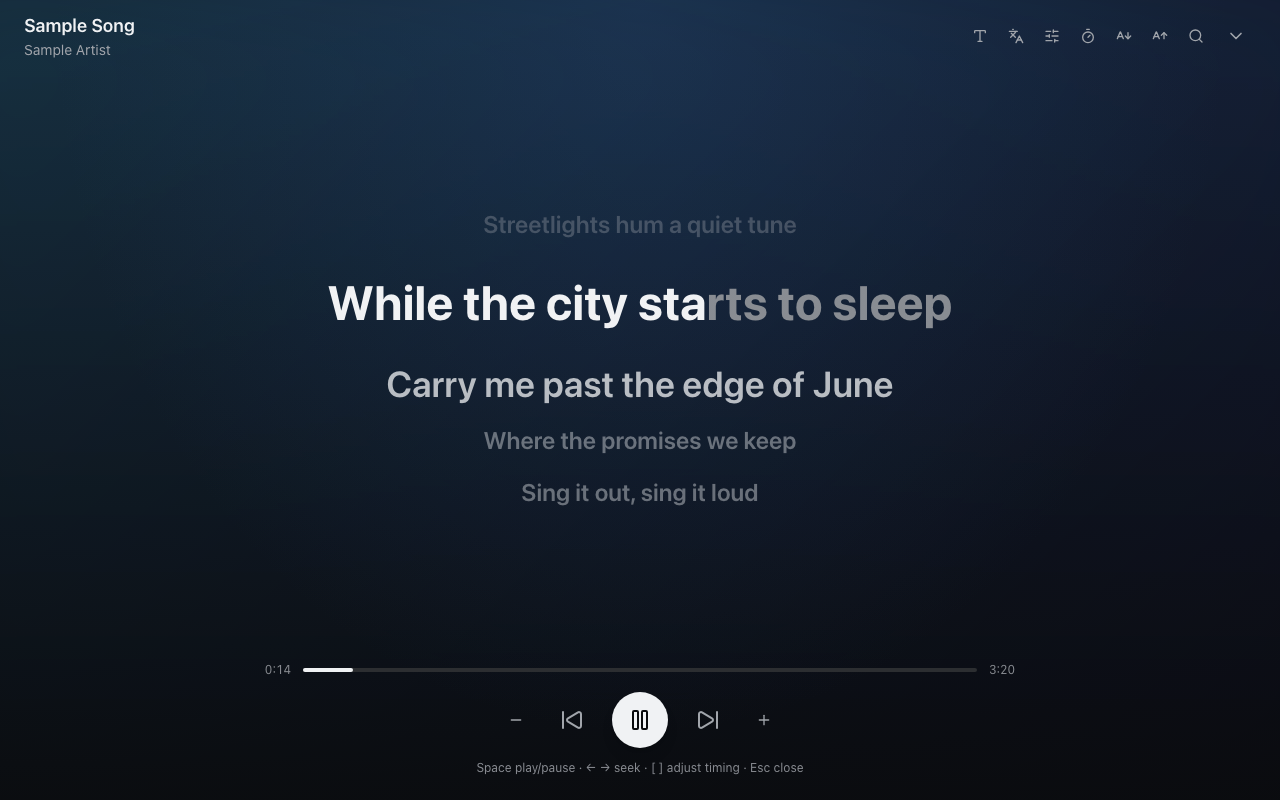
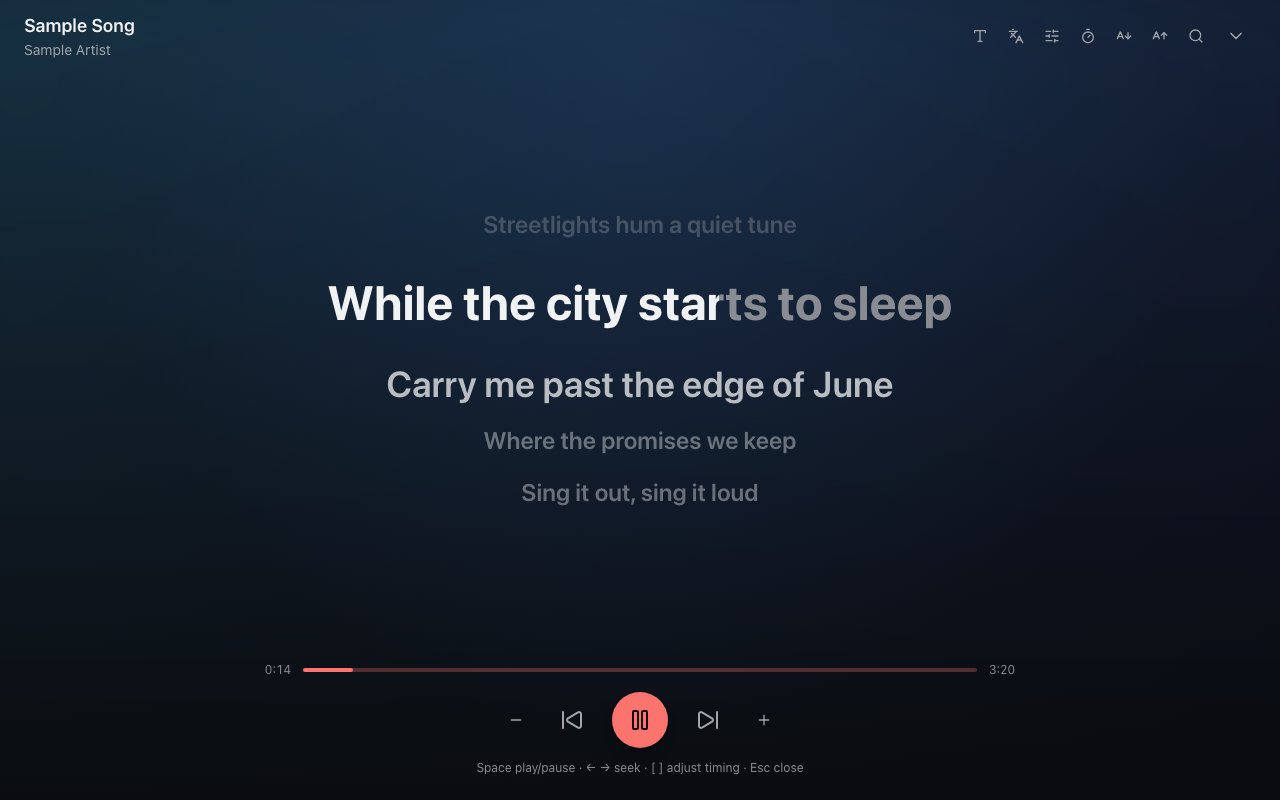
feat: more of the accent colour across the UI
Derived accent tints (soft, muted, line) follow the accent whether it is a
preset, custom or taken from the album art. The sidebar, player bar and content
header get a wash of it, the active nav item, chips, hover states, sliders, play
buttons and section titles use it, and selection and scrollbars pick it up. Accent
text must now stay readable on its own tint, so the readability target is 5.5 and
the light theme's default accent is a touch darker, both covered by tests.

Changed region(s): [[0.25, 0.8125, 0.75, 0.9375], [0.5312, 0.375, 0.5625, 0.4062]]

diff --git a/apps/desktop/src/app/pages/SettingsPage.tsx b/apps/desktop/src/app/pages/SettingsPage.tsx
@@ -89,7 +89,7 @@ export function SettingsPage() {
       <h1 className="font-display text-3xl font-bold tracking-tight">{t('settings.title')}</h1>
 
       <section className="flex flex-col gap-3">
-        <h2 className="font-semibold">{t('settings.account')}</h2>
+        <h2 className="section-title font-semibold">{t('settings.account')}</h2>
         <div className="flex items-center gap-3 rounded-lg border border-border bg-bg-elevated p-4">
           {account.data?.avatarUrl && (
             <CachedImg src={account.data.avatarUrl} alt="" className="size-10 rounded-full" />
@@ -131,7 +131,7 @@ export function SettingsPage() {
       <AppearanceSection />
 
       <section className="flex flex-col gap-3">
-        <h2 className="font-semibold">{t('settings.desktop')}</h2>
+        <h2 className="section-title font-semibold">{t('settings.desktop')}</h2>
         {settings && (
           <>
             <Toggle
@@ -166,7 +166,7 @@ export function SettingsPage() {
       </section>
 
       <section className="flex flex-col gap-3">
-        <h2 className="font-semibold">{t('settings.shortcuts')}</h2>
+        <h2 className="section-title font-semibold">{t('settings.shortcuts')}</h2>
         <p className="text-sm text-fg-muted">{t('settings.shortcutsHint')}</p>
         {settings && (
           <div className="flex flex-col divide-y divide-border rounded-lg border border-border bg-bg-elevated">
@@ -191,7 +191,7 @@ export function SettingsPage() {
       <PluginsSection />
 
       <section className="flex flex-col gap-3">
-        <h2 className="font-semibold">{t('settings.updates')}</h2>
+        <h2 className="section-title font-semibold">{t('settings.updates')}</h2>
         <div className="flex items-center gap-3 rounded-lg border border-border bg-bg-elevated p-4 text-sm">
           <div className="flex-1">
             <div>{t('settings.version', { version: version || '—' })}</div>
@@ -222,7 +222,7 @@ export function SettingsPage() {
       <StorageSection />
 
       <section className="flex flex-col gap-3">
-        <h2 className="font-semibold">{t('settings.diagnostics')}</h2>
+        <h2 className="section-title font-semibold">{t('settings.diagnostics')}</h2>
         <dl className="grid grid-cols-[auto_1fr] gap-x-6 gap-y-1 rounded-lg border border-border bg-bg-elevated p-4 text-sm">
           <dt className="text-fg-subtle">{t('diag.bridge')}</dt>
           <dd>{bridgeVersion ?? '—'}</dd>
@@ -252,7 +252,7 @@ export function SettingsPage() {
       </section>
 
       <section className="flex flex-col gap-2 text-sm text-fg-muted">
-        <h2 className="font-semibold text-fg">{t('settings.about')}</h2>
+        <h2 className="section-title font-semibold text-fg">{t('settings.about')}</h2>
         <p>{t('about.text')}</p>
         <p className="text-xs text-fg-subtle">{t('about.disclaimer')}</p>
       </section>

diff --git a/apps/desktop/src/app/Sidebar.tsx b/apps/desktop/src/app/Sidebar.tsx
@@ -27,7 +27,7 @@ export function Sidebar() {
   return (
     <nav
       aria-label={t('nav.primary')}
-      className="flex h-full min-h-0 flex-col border-e border-border bg-bg-elevated"
+      className="flex h-full min-h-0 flex-col border-e border-accent-line bg-bg-elevated bg-[image:linear-gradient(to_bottom,var(--color-accent-soft),transparent_45%)]"
     >
       <div data-tauri-drag-region className="h-10 shrink-0" />
       <div className="flex flex-col gap-1 px-3">
@@ -40,8 +40,8 @@ export function Sidebar() {
               cn(
                 'flex h-(--nav-h) items-center gap-3 rounded-md px-2 text-sm transition-colors duration-(--duration-fast)',
                 isActive
-                  ? 'bg-bg-overlay text-fg'
-                  : 'text-fg-muted hover:bg-bg-overlay hover:text-fg',
+                  ? 'bg-accent-soft font-medium text-accent'
+                  : 'text-fg-muted hover:bg-accent-soft hover:text-fg',
               )
             }
           >
@@ -57,7 +57,7 @@ export function Sidebar() {
             <button
               type="button"
               aria-label={t('nav.newPlaylist')}
-              className="text-fg-subtle hover:text-fg"
+              className="text-fg-subtle hover:text-accent"
               onClick={() => openDialog({ type: 'createPlaylist' })}
             >
               <Plus className="size-4" />
@@ -74,8 +74,8 @@ export function Sidebar() {
               cn(
                 'flex h-[calc(var(--nav-h)+0.25rem)] items-center gap-2 rounded-md px-2 text-sm',
                 isActive
-                  ? 'bg-bg-overlay text-fg'
-                  : 'text-fg-muted hover:bg-bg-overlay hover:text-fg',
+                  ? 'bg-accent-soft font-medium text-accent'
+                  : 'text-fg-muted hover:bg-accent-soft hover:text-fg',
               )
             }
           >
@@ -100,8 +100,8 @@ export function Sidebar() {
             cn(
               'flex h-(--nav-h) items-center gap-3 rounded-md px-2 text-sm',
               isActive
-                ? 'bg-bg-overlay text-fg'
-                : 'text-fg-muted hover:bg-bg-overlay hover:text-fg',
+                ? 'bg-accent-soft font-medium text-accent'
+                : 'text-fg-muted hover:bg-accent-soft hover:text-fg',
             )
           }
         >

diff --git a/apps/desktop/src/appearance/tokens.test.ts b/apps/desktop/src/appearance/tokens.test.ts
@@ -13,6 +13,7 @@ import {
   ACCENT_PRESETS,
   type Rgb,
 } from './color';
+import { ACCENT_MIN_CONTRAST } from './apply';
 
 const css = readFileSync(
   fileURLToPath(new URL('../../../../packages/ui/src/styles/tokens.css', import.meta.url)),
@@ -56,6 +57,38 @@ describe.each(['dark', 'light', 'amoled'] as const)('%s theme meets WCAG AA', (t
   });
   it('borders are visible but quiet', () => {
     expect(contrast(get('border'), get('bg'))).toBeGreaterThan(1.1);
+  });
+});
+
+const mixRgb = (a: Rgb, b: Rgb, t: number): Rgb => [
+  a[0] * t + b[0] * (1 - t),
+  a[1] * t + b[1] * (1 - t),
+  a[2] * t + b[2] * (1 - t),
+];
+/** accent-soft is 14% accent; gradients can add a little more where they overlap. */
+const TINT = 0.16;
+
+describe.each(['dark', 'light', 'amoled'] as const)('%s theme: accent on its own tint', (theme) => {
+  const t = tokens(theme);
+  it('the default accent stays readable as text on the tinted surfaces', () => {
+    const accent = t['accent'] ?? [0, 0, 0];
+    for (const surface of ['bg', 'bg-elevated']) {
+      const bg = t[surface] ?? [0, 0, 0];
+      expect(contrast(accent, mixRgb(accent, bg, TINT))).toBeGreaterThanOrEqual(4.5);
+    }
+  });
+  it('every preset, once nudged, does too', () => {
+    const page = t['bg'] ?? [0, 0, 0];
+    for (const p of ACCENT_PRESETS) {
+      const accent = ensureContrast(presetRgb(p.id), page, ACCENT_MIN_CONTRAST);
+      for (const surface of ['bg', 'bg-elevated']) {
+        const bg = t[surface] ?? [0, 0, 0];
+        expect(
+          contrast(accent, mixRgb(accent, bg, TINT)),
+          `${p.id} on ${surface}`,
+        ).toBeGreaterThanOrEqual(4.5);
+      }
+    }
   });
 });
 

diff --git a/apps/desktop/src/app/components/ItemCard.tsx b/apps/desktop/src/app/components/ItemCard.tsx
@@ -38,7 +38,7 @@ export function ItemCard({ item, width }: { item: Item; width?: number }) {
         onKeyDown={(e) => {
           if (e.key === 'Enter') open();
         }}
-        className="group box-content flex shrink-0 cursor-pointer flex-col gap-2 rounded-lg p-2 outline-none transition-colors duration-(--duration-fast) hover:bg-bg-overlay focus-visible:ring-2 focus-visible:ring-accent"
+        className="group box-content flex shrink-0 cursor-pointer flex-col gap-2 rounded-lg p-2 outline-none transition-colors duration-(--duration-fast) hover:bg-accent-soft focus-visible:ring-2 focus-visible:ring-accent"
         style={{ width: isVideo ? tile * 1.6 : tile }}
       >
         <div className="relative">
@@ -135,7 +135,7 @@ function ActionTile({ item }: { item: Extract<Item, { kind: 'action' }> }) {
     <button
       type="button"
       onClick={() => void playItem(item)}
-      className="flex h-12 shrink-0 items-center gap-2 rounded-md border border-dashed border-border px-4 text-sm text-fg-muted hover:bg-bg-overlay"
+      className="flex h-12 shrink-0 items-center gap-2 rounded-md border border-dashed border-border px-4 text-sm text-fg-muted hover:bg-accent-soft"
     >
       {item.title}
     </button>

diff --git a/apps/desktop/src/app/components/ItemRow.tsx b/apps/desktop/src/app/components/ItemRow.tsx
@@ -50,7 +50,7 @@ export function ItemRow({ item, index, showIndex, showAlbum = true, onPlay, dens
       <button
         type="button"
         onClick={() => void playItem(item)}
-        className="flex h-12 items-center gap-3 rounded-md px-3 text-sm text-fg-muted hover:bg-bg-overlay"
+        className="flex h-12 items-center gap-3 rounded-md px-3 text-sm text-fg-muted hover:bg-accent-soft"
       >
         {item.title}
       </button>
@@ -72,7 +72,7 @@ export function ItemRow({ item, index, showIndex, showAlbum = true, onPlay, dens
           if (e.key === 'Enter') activate();
         }}
         className={cn(
-          'group grid cursor-default items-center gap-3 rounded-md px-2 outline-none hover:bg-bg-overlay focus-visible:ring-2 focus-visible:ring-accent',
+          'group grid cursor-default items-center gap-3 rounded-md px-2 outline-none hover:bg-accent-soft focus-visible:ring-2 focus-visible:ring-accent',
           dense ? 'h-[calc(var(--row-h)-0.5rem)]' : 'h-(--row-h)',
           showAlbum
             ? 'grid-cols-[2rem_auto_minmax(0,3fr)_minmax(0,2fr)_auto_2.5rem]'

diff --git a/apps/desktop/src/styles.css b/apps/desktop/src/styles.css
@@ -111,3 +111,40 @@ input[type='range'] {
     cursor: default;
   }
 }
+
+/* A wash of the accent colour: the main content fades in from the top, the sidebar from its head. */
+[data-content] {
+  background-image: radial-gradient(
+    ellipse 90% 320px at 50% -40px,
+    color-mix(in oklch, var(--color-accent) 20%, transparent),
+    transparent
+  );
+  background-repeat: no-repeat;
+}
+:root[data-theme='light'] [data-content] {
+  background-image: radial-gradient(
+    ellipse 90% 320px at 50% -40px,
+    color-mix(in oklch, var(--color-accent) 14%, transparent),
+    transparent
+  );
+}
+
+::selection {
+  background: var(--color-accent-muted);
+}
+
+* {
+  scrollbar-color: color-mix(in oklch, var(--color-accent) 40%, transparent) transparent;
+}
+
+/* Section titles carry a short bar in the accent colour. */
+.section-title::before {
+  content: '';
+  display: inline-block;
+  width: 3px;
+  height: 1em;
+  margin-inline-end: 0.55rem;
+  border-radius: 9999px;
+  background: var(--color-accent);
+  vertical-align: -0.12em;
+}

diff --git a/apps/desktop/src/appearance/apply.ts b/apps/desktop/src/appearance/apply.ts
@@ -40,6 +40,13 @@ const BG: Record<ResolvedTheme, Rgb> = {
   light: parseOklch('oklch(0.985 0.002 260)') ?? [250, 250, 250],
 };
 
+/**
+ * Accent text must stay readable on the background and also on the accent's own tint (selected
+ * nav items, hovered buttons), which is slightly closer to the accent. 5.5 on the page keeps the
+ * worst case on a tint above 4.5 (checked in tokens.test.ts).
+ */
+export const ACCENT_MIN_CONTRAST = 5.5;
+
 /** CSS variable overrides for the accent, or null to use the theme's own accent. */
 export function accentVars(
   prefs: AppearancePrefs,
@@ -52,7 +59,7 @@ export function accentVars(
   else if (prefs.accent.id !== 'coral') base = presetRgb(prefs.accent.id);
   if (!base) return null;
   // Accent is used for text and icons on the page background as well as for fills.
-  const readable = ensureContrast(base, BG[theme], 4.5);
+  const readable = ensureContrast(base, BG[theme], ACCENT_MIN_CONTRAST);
   return { accent: toHex(readable), accentFg: accentForeground(readable) };
 }
 

diff --git a/packages/ui/src/components/Slider.tsx b/packages/ui/src/components/Slider.tsx
@@ -47,13 +47,13 @@ export function Slider({
           if (v[0] !== undefined) onCommit?.(v[0]);
         }}
       >
-        <RadixSlider.Track className="relative h-1 grow rounded-full bg-border">
-          <RadixSlider.Range className="absolute h-full rounded-full bg-fg group-hover:bg-accent" />
+        <RadixSlider.Track className="relative h-1 grow rounded-full bg-accent-muted">
+          <RadixSlider.Range className="absolute h-full rounded-full bg-accent group-hover:brightness-110" />
         </RadixSlider.Track>
         <RadixSlider.Thumb
           aria-label={label}
           className={cn(
-            'block size-3 rounded-full bg-fg opacity-0 shadow transition-opacity duration-(--duration-fast)',
+            'block size-3 rounded-full bg-accent opacity-0 shadow transition-opacity duration-(--duration-fast)',
             'group-hover:opacity-100 focus-visible:opacity-100 focus-visible:outline-2 focus-visible:outline-offset-2 focus-visible:outline-accent',
           )}
         />

diff --git a/packages/ui/src/styles/tokens.css b/packages/ui/src/styles/tokens.css
@@ -21,6 +21,10 @@
   --color-border: oklch(0.3 0.006 260);
   --color-accent: oklch(0.72 0.17 25);
   --color-accent-fg: oklch(0.15 0.02 25);
+  /* Tints of whatever the accent currently is (preset, custom, or from album art). */
+  --color-accent-soft: color-mix(in oklch, var(--color-accent) 14%, transparent);
+  --color-accent-muted: color-mix(in oklch, var(--color-accent) 30%, transparent);
+  --color-accent-line: color-mix(in oklch, var(--color-accent) 32%, var(--color-border));
   --color-danger: oklch(0.72 0.19 25);
   --color-warning: oklch(0.8 0.15 80);
   --color-success: oklch(0.75 0.15 150);
@@ -44,7 +48,7 @@
   --color-fg-muted: oklch(0.43 0.01 260);
   --color-fg-subtle: oklch(0.5 0.01 260);
   --color-border: oklch(0.88 0.005 260);
-  --color-accent: oklch(0.58 0.2 25);
+  --color-accent: oklch(0.5 0.2 25);
   --color-accent-fg: oklch(0.99 0.01 25);
   --color-danger: oklch(0.52 0.2 25);
   --color-warning: oklch(0.5 0.12 80);

diff --git a/apps/desktop/src/app/NowPlayingView.tsx b/apps/desktop/src/app/NowPlayingView.tsx
@@ -171,7 +171,7 @@ export function NowPlayingView() {
                       type="button"
                       aria-label={playing ? t('player.pause') : t('player.play')}
                       onClick={() => void sendCommand({ type: 'toggle' })}
-                      className="flex size-16 items-center justify-center rounded-full bg-fg text-bg shadow-lg transition-transform hover:scale-105 focus-visible:outline-2 focus-visible:outline-accent"
+                      className="flex size-16 items-center justify-center rounded-full bg-accent text-accent-fg shadow-lg transition-transform hover:scale-105 focus-visible:outline-2 focus-visible:outline-accent"
                     >
                       {playing ? (
                         <Pause className="size-7" />

diff --git a/apps/desktop/src/app/KaraokeView.tsx b/apps/desktop/src/app/KaraokeView.tsx
@@ -460,7 +460,7 @@ function Stage() {
               type="button"
               aria-label={playing ? t('player.pause') : t('player.play')}
               onClick={() => void sendCommand({ type: 'toggle' })}
-              className="flex size-14 items-center justify-center rounded-full bg-fg text-bg shadow-lg transition-transform hover:scale-105 focus-visible:outline-2 focus-visible:outline-accent"
+              className="flex size-14 items-center justify-center rounded-full bg-accent text-accent-fg shadow-lg transition-transform hover:scale-105 focus-visible:outline-2 focus-visible:outline-accent"
             >
               {playing ? <Pause className="size-6" /> : <Play className="size-6 translate-x-0.5" />}
             </button>

diff --git a/packages/ui/src/components/Button.tsx b/packages/ui/src/components/Button.tsx
@@ -21,8 +21,8 @@ export const Button = forwardRef<HTMLButtonElement, ButtonProps>(function Button
         'disabled:pointer-events-none disabled:opacity-50',
         size === 'sm' ? 'h-8 px-3 text-sm' : 'h-10 px-4 text-sm',
         variant === 'primary' && 'bg-accent text-accent-fg hover:brightness-110',
-        variant === 'secondary' && 'bg-bg-overlay text-fg hover:bg-border',
-        variant === 'ghost' && 'text-fg-muted hover:bg-bg-overlay hover:text-fg',
+        variant === 'secondary' && 'bg-bg-overlay text-fg hover:bg-accent-soft hover:text-accent',
+        variant === 'ghost' && 'text-fg-muted hover:bg-accent-soft hover:text-accent',
         className,
       )}
       {...props}
